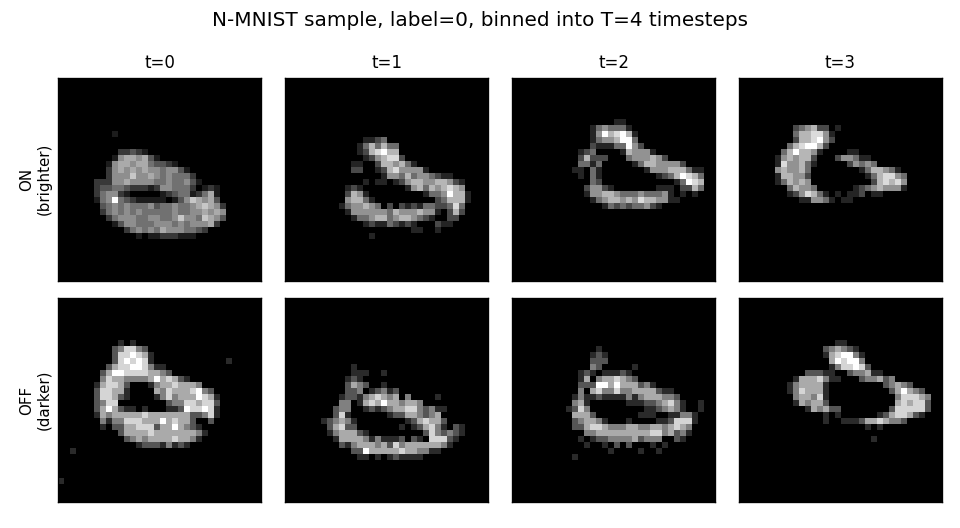
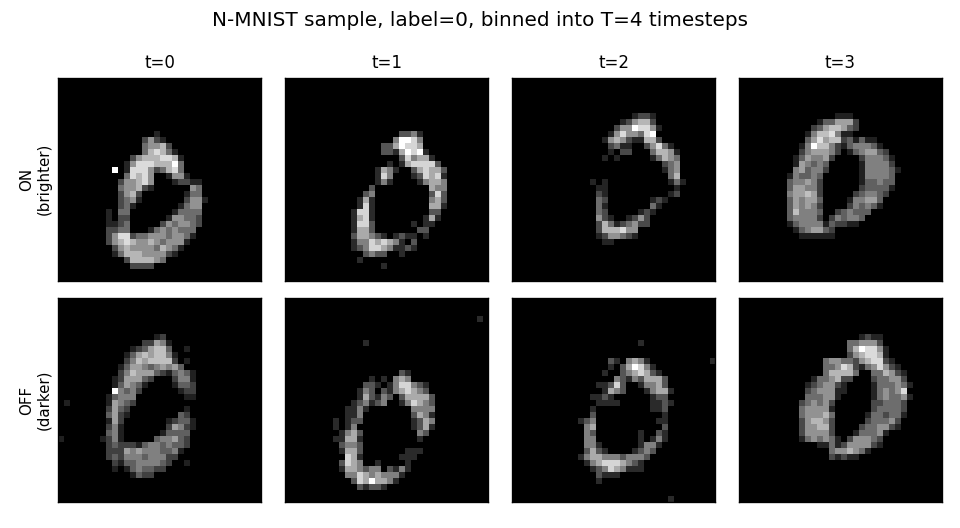
M0 training results: both D0003 arms, 4 seeds each, on the MI210
Trained over ssh on the borrowed AMD box - 6s/epoch, so the whole
experiment including seed repeats took minutes. Results:

- binarised 96.93% mean, counts 97.58% mean. The 0.65pp gap is
  consistent across all seeds, so it's real. D0003 verdict pending.
- Trained firing rates: conv layers 6-11%, FC 30%. The FC layer is
  both the densest layer and the one holding 81% of the weights,
  which is exactly the wrong combination for the event-driven design.
  Recorded as D0006 - this needs to be on the table for M6.

Packed .npy dataset pulled back so the Mac trains from the same bits.

diff --git a/docs/decisions.md b/docs/decisions.md
@@ -251,3 +251,43 @@ linear in that scale. Two consequences:
 **Guard:** `train/02_model_check.py` now fails if any layer emits zero spikes,
 so this failure mode is caught in seconds rather than after a training run that
 goes nowhere. Verified: the check fails at gain 1.0 and passes at gain 4.0.
+
+### D0003 measurement (2026-08-15, MI210, 10 epochs, 4 seeds per arm)
+
+```
+                     final test accuracy            mean
+binarised (1-bit)    96.81  96.95  97.25  96.70    96.93%
+counts (4-bit in)    97.85  97.50  97.66  97.30    97.58%
+```
+
+Every counts run beats every binarised run: the gap is real, ~0.65 pp, and not
+seed noise. Per-layer firing rates were essentially identical between arms
+(c1 ~6.5%, c2 ~8%, c3 ~10%, fc ~30%), so the encoding choice does not move the
+thesis's independent variable — it only trades accuracy against input-layer
+hardware complexity. The decision is therefore: is 0.65 pp on N-MNIST worth
+carrying a 4-bit payload per input event through the event-driven datapath?
+
+---
+
+## D0006 — M0 result: trained per-layer firing rates
+
+**Date:** 2026-08-15 · **Status:** measurement, recorded
+
+10 epochs on N-MNIST, MI210, T=4, binarised arm, final epoch:
+
+```
+c1    6.8%   c2    7.6%   c3   10.5%   fc   30.1%
+```
+
+Three observations that shape the hardware milestones:
+
+1. **Conv layers are sparse (6-11%), the FC layer is not (30%).** The FC layer
+   also holds 81% of the weights (D0004). The event-driven design's worst layer
+   is therefore also its biggest layer. This combination decides M6's fate and
+   must drive the M6 design discussion.
+2. **Rates drifted down over training** (fc 34%->30%), not up. The runaway-rate
+   worry from the synthetic smoke test did not materialise on real data at
+   these settings; a rate regulariser is still expected for M7's sweep, but is
+   not needed just to keep the network sane.
+3. **Rates are stable across seeds and encodings**, so a single training run is
+   a fair basis for hardware sizing.
